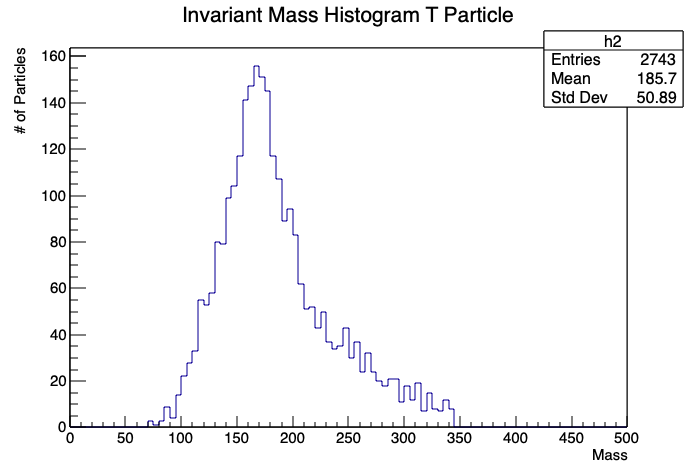
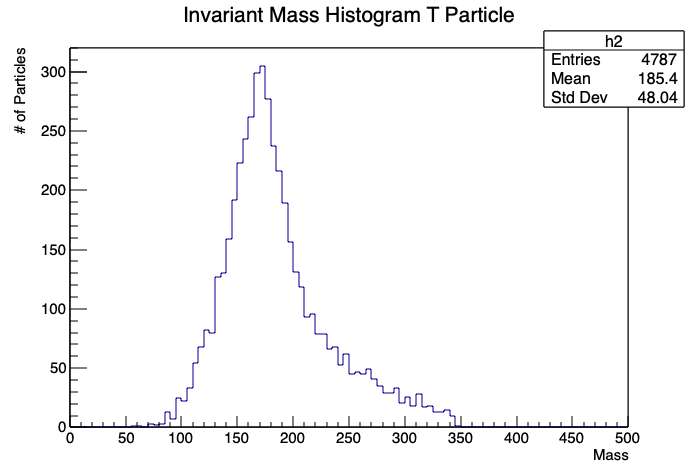
Updated the code to improve flow as negatives and charge are no longer looked for when trying to calculate the proper t particle's invariant mass.

diff --git a/part7/mainRootTFilepptoztojj.py b/part7/mainRootTFilepptoztojj.py
@@ -1,6 +1,6 @@
 import ROOT
-import sys
-import math
+# import sys
+# import math
 
 ROOT.gInterpreter.AddIncludePath("~/physics/delphes-master/external/")
 ROOT.gSystem.Load("~/physics/delphes-master/libDelphes.so")
@@ -25,8 +25,7 @@ with ROOT.TFile("./part7/tag_1_delphes_events.root", "read") as f, ROOT.TFile("p
         tParticle = ROOT.TLorentzVector()
         wUpdated = False
         tUpdated = False
-        numBJetsPositiveCharged = 0
-        numBJetsNegativeCharged = 0
+        numBJets = 0
         numNonBJets = 0
 
         #Check if not enough particles.
@@ -36,10 +35,7 @@ with ROOT.TFile("./part7/tag_1_delphes_events.root", "read") as f, ROOT.TFile("p
         #Count how many of each type of particle B or notB.
         for i in range(numParticles):
             if (event.GetLeaf("Jet", "Jet.BTag").GetValue(i) == 1):
-                if (event.GetLeaf("Jet", "Jet.Charge").GetValue(i) > 0):
-                    numBJetsPositiveCharged += 1
-                else:
-                    numBJetsNegativeCharged += 1
+                numBJets += 1
             else:
                 numNonBJets += 1
         
@@ -71,13 +67,9 @@ with ROOT.TFile("./part7/tag_1_delphes_events.root", "read") as f, ROOT.TFile("p
         
         houtWBoson.Fill(wBoson.M())
         
-        #Check if there is enough of each type of particle B.
-        if (numBJetsNegativeCharged < 1):
-            continue
-        
         for i in range(numParticles):
             #Check if either particle is not a B particle and if so continue.
-            if (event.GetLeaf("Jet", "Jet.BTag").GetValue(i) == 0 or event.GetLeaf("Jet", "Jet.Charge").GetValue(i) > 0):
+            if (event.GetLeaf("Jet", "Jet.BTag").GetValue(i) == 0):
                 continue
             #Calculate the mass of the T Particle and check if it is closer.
             m3.SetPtEtaPhiM(event.GetLeaf("Jet", "Jet.PT").GetValue(i), event.GetLeaf("Jet", "Jet.Eta").GetValue(i), event.GetLeaf("Jet", "Jet.Phi").GetValue(i), event.GetLeaf("Jet", "Jet.Mass").GetValue(i))
